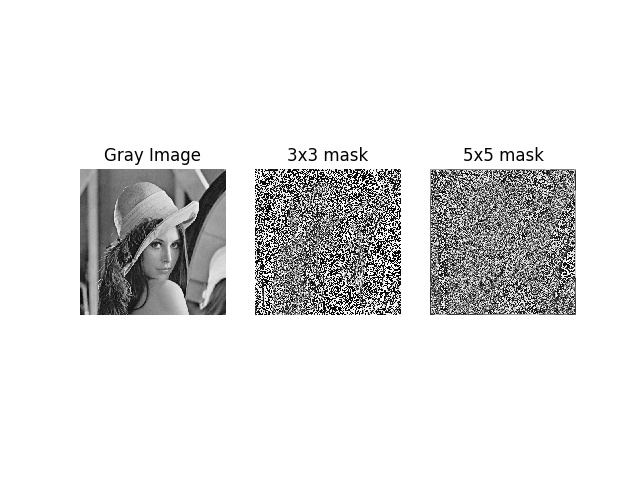
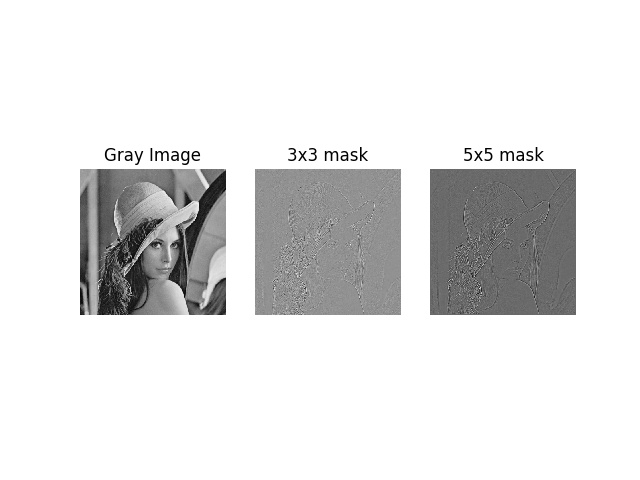
Add finished "laplacian filter", with their results

Changed region(s): [[0.6562, 0.3438, 0.9062, 0.6562], [0.375, 0.3438, 0.625, 0.6562]]

diff --git a/src/laplacian_filter.py b/src/laplacian_filter.py
@@ -3,13 +3,13 @@ import numpy as np
 from matplotlib import pyplot as plt
 
 
-def set_kernel(type=3):
+def set_kernel(type_temp):
     laplacian_kernel = 0
-    if type == 3:
+    if type_temp == 3:
         laplacian_kernel = np.array([[1, 1, 1],
                                      [1, -8, 1],
                                      [1, 1, 1]])
-    elif type == 5:
+    elif type_temp == 5:
         laplacian_kernel = np.array([[-1, -1, -1, -1, -1],
                                      [-1, -1, -1, -1, -1],
                                      [-1, -1, 24, -1, -1],
@@ -18,17 +18,15 @@ def set_kernel(type=3):
     return laplacian_kernel
 
 
-def get_laplacian_filter(image, type=3):
-    borders = int(type / 2)
-    kernel = set_kernel(type)
-    laplacian_image = image[:, :].copy()
+def get_laplacian_filter(image, matrix_type):
+    borders = int(matrix_type / 2)
+    laplacian_kernel = set_kernel(matrix_type)
+    laplacian_image = np.zeros(image.shape, dtype=np.int16)
     for i in range(borders, image.shape[0] - borders):
         for j in range(borders, image.shape[1] - borders):
-            laplacian_result = np.multiply(image[i - borders:i + borders + 1, j - borders:j + borders + 1], kernel)
-            result = np.sum(laplacian_result)
-            laplacian_image[i, j] = result
+            kernel = image[i - borders:i + borders + 1, j - borders:j + borders + 1] * laplacian_kernel
+            laplacian_image[i, j] = np.sum(kernel)
     return laplacian_image
-    # return cv2.normalize(laplacian_image, 0, 255, cv2.NORM_MINMAX)
 
 
 if __name__ == '__main__':
@@ -41,32 +39,16 @@ if __name__ == '__main__':
     laplacian_filter_3x3 = get_laplacian_filter(gray_img, 3)
     images.append(laplacian_filter_3x3)
 
-    # laplacian_filter_3x3_2_times = get_laplacian_filter(laplacian_filter_3x3, 3)
-    # images.append(laplacian_filter_3x3_2_times)
-
     laplacian_filter_5x5 = get_laplacian_filter(gray_img, 5)
     images.append(laplacian_filter_5x5)
 
-    # laplacian_filter_5x5_2_times = get_laplacian_filter(laplacian_filter_5x5, 5)
-    # images.append(laplacian_filter_5x5_2_times)
-    #
-    # laplacian_filter_5x5_3_times = get_laplacian_filter(laplacian_filter_5x5_2_times, 5)
-    # images.append(laplacian_filter_5x5_3_times)
-
     fig = plt.figure(0)
-    titles = ['Gray Image',
-              '3x3 mask',
-              # '3x3 mask, 2 times',
-              '5x5 mask',
-              # '5x5 mask',
-              # '5x5 mask, 2 times',
-              # '5x5 mask, 3 times'
-              ]
+    titles = ['Gray Image', '3x3 mask', '5x5 mask']
     for x in range(len(images)):
         plt.subplot(1, 3, x + 1), plt.imshow(images[x], 'gray')
         plt.title(titles[x])
         plt.axis('off')
-        cv2.imwrite("../results/laplacian_filter_image_mask_{}.jpg".format(x + 1), images[x])
+        cv2.imwrite("../results/laplacian_filter_image_mask_{}.jpg".format(int(x + 1)), images[x])
 
     fig.savefig("../results/laplacian_filter_figure.jpg")
     plt.show()

diff --git a/src/gaussian_filter.py b/src/gaussian_filter.py
@@ -57,9 +57,9 @@ if __name__ == '__main__':
 
     fig = plt.figure(0)
     titles = ['Gray Image',
-              '3x3 mask',
+              '3x3 mask, 1 time',
               '3x3 mask, 2 times',
-              '5x5 mask',
+              '5x5 mask, 1 time',
               '5x5 mask, 2 times',
               '5x5 mask, 3 times']
     for x in range(len(images)):
